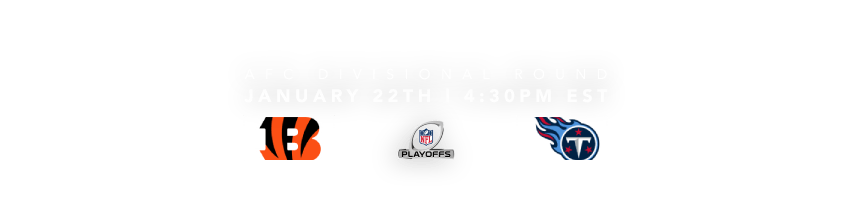
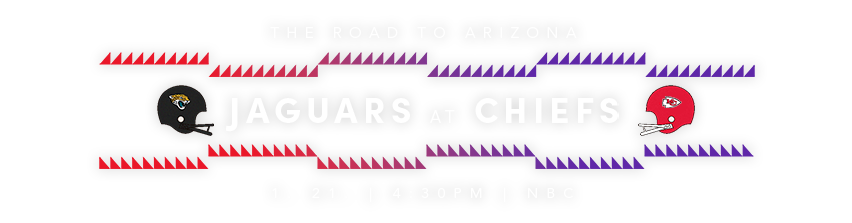
2023 div round

diff --git a/src/scss/themes/_divisional-1.scss b/src/scss/themes/_divisional-1.scss
@@ -1,5 +1,5 @@
 html {
-	background-image: url("../img/wildcard-bg5.png");
+	background-image: url("../img/div1-bg.png");
 	z-index: 1;
    	background-color: rgb(33,33,33);
     background-size: auto;
@@ -21,7 +21,7 @@ html::before {
 //    background-position: center;
     background-repeat: no-repeat;
     //end conf-21
-    background-image: url("../img/wildcard-text2.png");
+    background-image: url("../img/div-text1.png");
     background-size: auto;
     background-position: center;
     //top: 50px;
@@ -35,7 +35,7 @@ body::before {
     top: 107px;
     left: 0;
     //end conf-21
-    background-image: url("../img/wild-left2.png");
+    background-image: url("../img/div1-left.png");
     //background-size: 543px;
     background-repeat: no-repeat;
     background-position: top right 60px;
@@ -52,7 +52,7 @@ body::after {
 //    z-index:-1;
 //    z-index:-2;
     //end conf-21
-	background-image: url("../img/wild-right2.png");
+	background-image: url("../img/div-right.png");
     //background-size: 600px;
     background-repeat: no-repeat;
 //    background-position: top left -50px;
